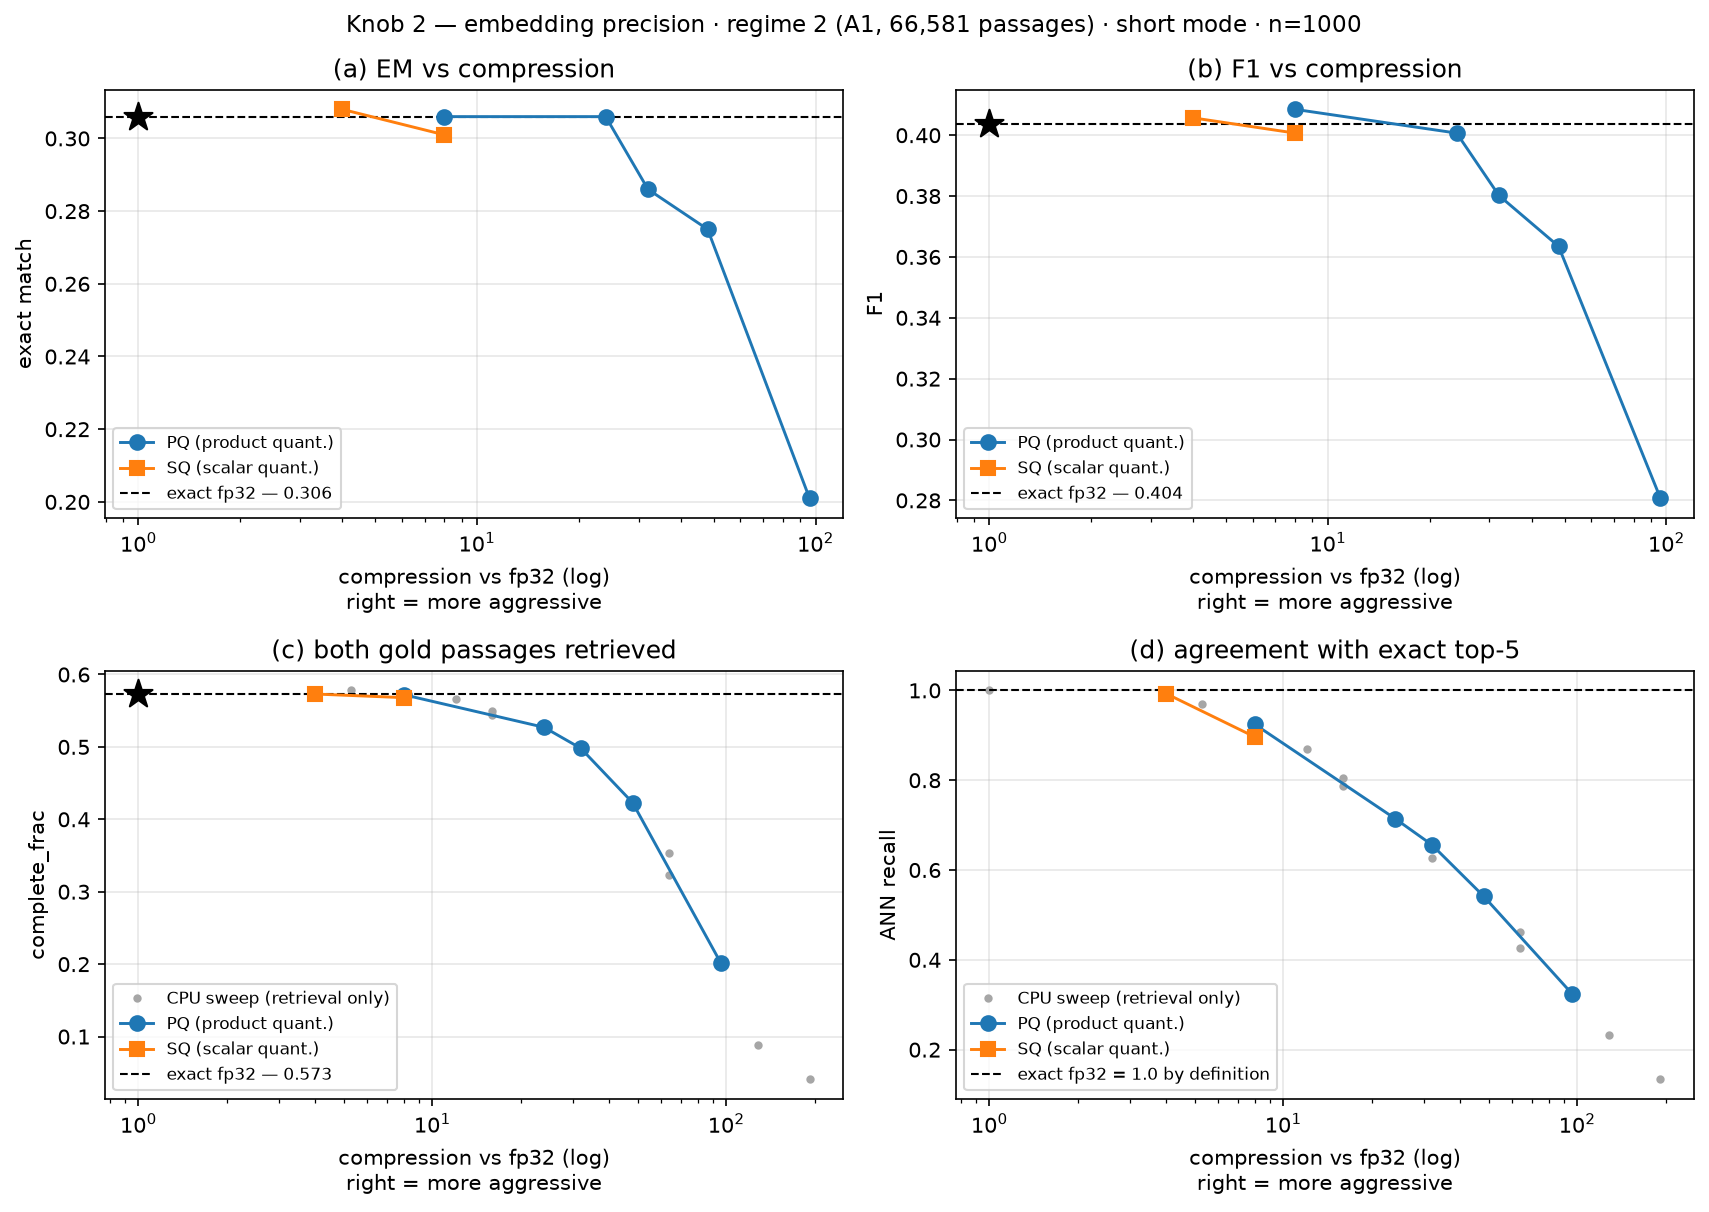
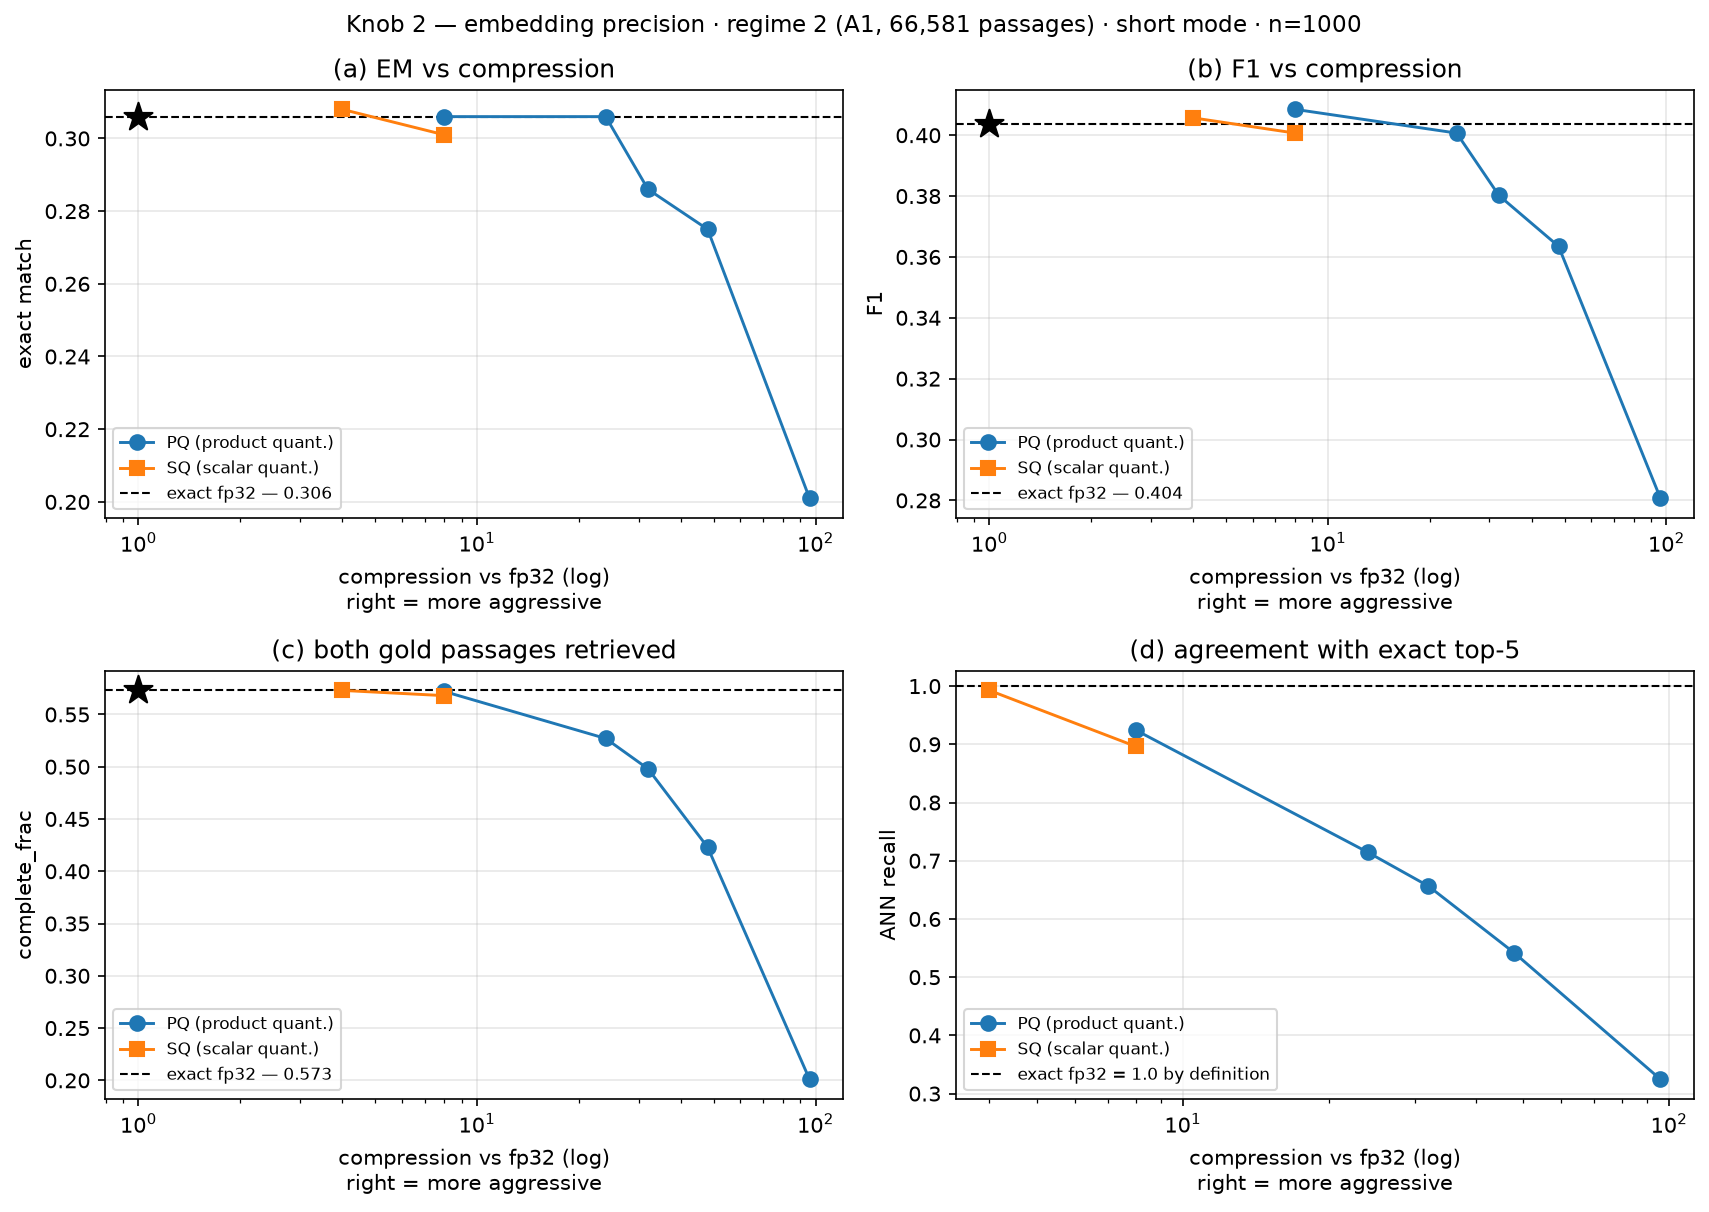
Fixed knob 2 plot

diff --git a/scripts/plot_phase2.py b/scripts/plot_phase2.py
@@ -304,7 +304,6 @@ def fig_knob2(results_dir: str, out_path: str, manifest: list) -> None:
     but it shows the GPU points sampling a curve rather than defining it.
     """
     df = pd.read_csv(os.path.join(results_dir, "knob2_summary.csv"))
-    dense = pd.read_csv(os.path.join(results_dir, "knob2_dense_sweep.csv"))
     base = df.loc[df.compression.astype(float).idxmin()]
 
     panels = (("em", "exact match", "(a) EM vs compression"),
@@ -317,11 +316,6 @@ def fig_knob2(results_dir: str, out_path: str, manifest: list) -> None:
     fig, axes = plt.subplots(2, 2, figsize=(11.5, 8.2))
     ax = axes.ravel()
 
-    ds = dense.sort_values("compression")
-    for j, col in ((2, "complete_frac"), (3, "ann_recall")):
-        if col in ds.columns:
-            ax[j].plot(ds.compression, ds[col], ".", color="0.65", ms=6,
-                       ls="none", zorder=1, label="CPU sweep (retrieval only)")
 
     for key, label, colour, marker in (("pq", "PQ (product quant.)", C_A, "o"),
                                        ("sq", "SQ (scalar quant.)", C_B, "s")):
